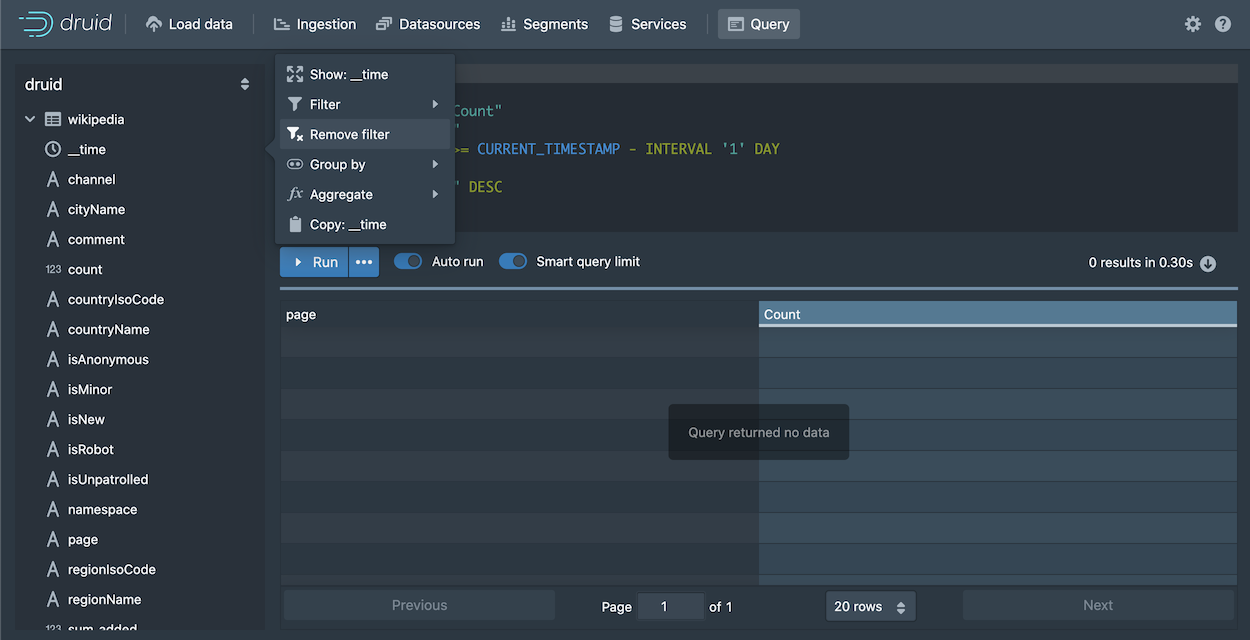
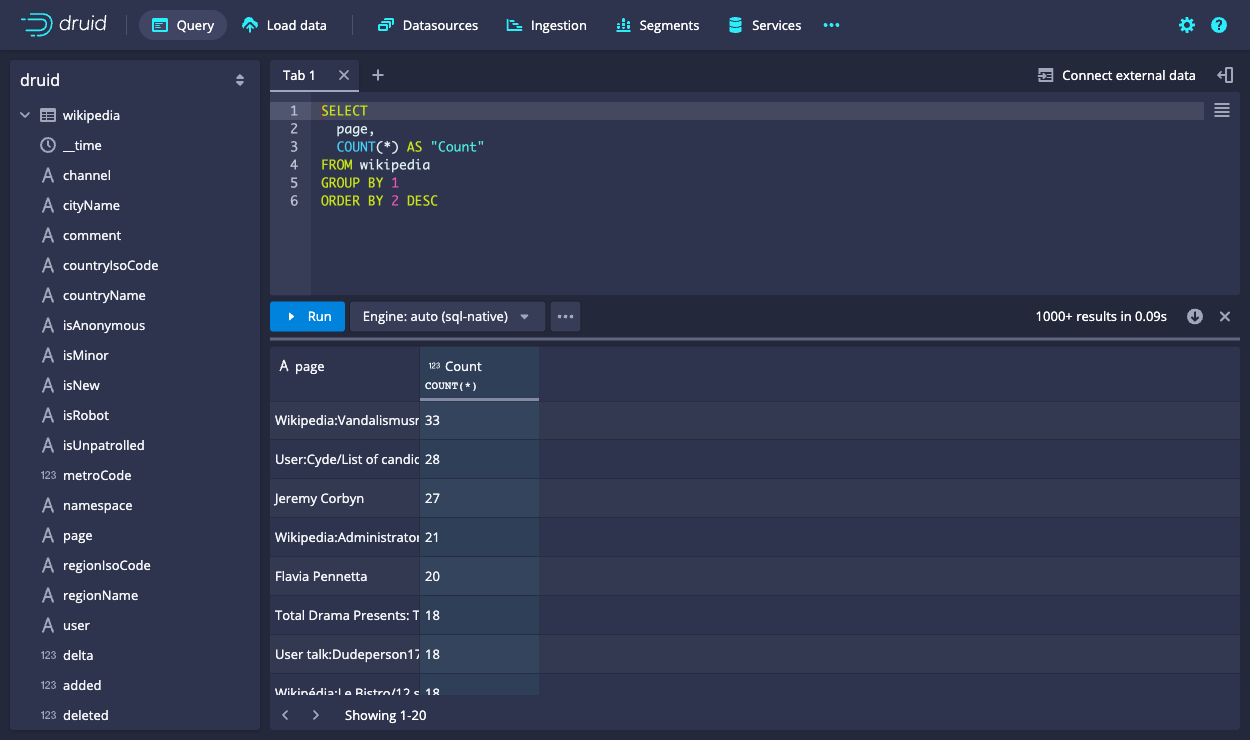
fix quickstart (#13126)

diff --git a/docs/tutorials/tutorial-query.md b/docs/tutorials/tutorial-query.md
@@ -64,21 +64,17 @@ create a query for the page dimension.
    returns no data, since by default the query filters for data from the last day, while our data is considerably
    older than that. Let's remove the filter.  
 
-5. In the datasource tree, click `__time` and **Remove Filter**. 
-
-   ![Clear WHERE filter](../assets/tutorial-query-03.png "Clear WHERE filter")
-
-6. Click **Run** to run the query.   
+5. Click **Run** to run the query.
 
    You should now see two columns of data, a page name and the count:
 
-   ![Query results](../assets/tutorial-query-04.png "Query results")
+   ![Query results](../assets/tutorial-query-03.png "Query results")
 
    Notice that the results are limited in the console to about a hundred, by default, due to the **Smart query limit** 
    feature. This helps users avoid inadvertently running queries that return an excessive amount of data, possibly
    overwhelming their system. 
 
-7. Let's edit the query directly and take a look at a few more query building features in the editor. 
+6. Let's edit the query directly and take a look at a few more query building features in the editor.
    Click in the query edit pane and make the following changes: 
 
    1.  Add a line after the first column, `"page"` and Start typing the name of a new column, `"countryName"`. Notice that the autocomplete menu suggests column names, functions, keywords, and more. Choose "countryName" and 
@@ -108,7 +104,7 @@ returns the number of edits for the page. Make the same column name change in th
    is null. Let's 
    show only rows with a `countryName` value.
 
-8. Click the countryName dimension in the left pane and choose the first filtering option. It's not exactly what we want, but
+7. Click the `countryName` dimension in the left pane and choose the first filtering option. It's not exactly what we want, but
 we'll edit it by hand. The new WHERE clause should appear in your query. 
 
 8. Modify the WHERE clause to exclude results that do not have a value for countryName: 
@@ -118,7 +114,7 @@ we'll edit it by hand. The new WHERE clause should appear in your query.
    ``` 
    Run the query again. You should now see the top edits by country:  
 
-   ![Finished query](../assets/tutorial-query-035.png "Finished query")
+   ![Finished query](../assets/tutorial-query-04.png "Finished query")
 
 9. Under the covers, every Druid SQL query is translated into a query in the JSON-based _Druid native query_ format before it runs
  on data nodes. You can view the native query for this query by clicking `...` and **Explain SQL Query**. 
@@ -126,7 +122,7 @@ we'll edit it by hand. The new WHERE clause should appear in your query.
    While you can use Druid SQL for most purposes, familiarity with native query is useful for composing complex queries and for troubleshooting 
 performance issues. For more information, see [Native queries](../querying/querying.md). 
 
-   ![Explain query](../assets/tutorial-query-06.png "Explain query")
+   ![Explain query](../assets/tutorial-query-05.png "Explain query")
 
     > Another way to view the explain plan is by adding EXPLAIN PLAN FOR to the front of your query, as follows:
     >
@@ -163,7 +159,7 @@ FROM wikipedia WHERE TIME_IN_INTERVAL("__time", '2015-09-12/2015-09-13')
 GROUP BY 1
 ```
 
-![Query example](../assets/tutorial-query-07.png "Query example")
+![Query example](../assets/tutorial-query-06.png "Query example")
 
 ### General group by
 
@@ -174,7 +170,7 @@ GROUP BY channel, page
 ORDER BY SUM(added) DESC
 ```
 
-![Query example](../assets/tutorial-query-08.png "Query example")
+![Query example](../assets/tutorial-query-07.png "Query example")
 
 
 ## Other ways to invoke SQL queries

diff --git a/docs/tutorials/index.md b/docs/tutorials/index.md
@@ -184,8 +184,9 @@ Follow these steps to load the sample Wikipedia dataset:
    ```
    </details>
 
-6. Optionally, click **Preview** to see the general shape of the data before you ingest it.  
-7. Click **Run** to execute the query. The task may take a minute or two to complete. When done, the task displays its duration and the number of rows inserted into the table. The view is set to automatically refresh, so you don't need to refresh the browser to see the status change.
+6. Optionally, click **Preview** to see the general shape of the data before you ingest it.
+7. Edit the first line of the query and change the default destination datasource name from `wikiticker-2015-09-12-sampled` to `wikipedia`.
+8. Click **Run** to execute the query. The task may take a minute or two to complete. When done, the task displays its duration and the number of rows inserted into the table. The view is set to automatically refresh, so you don't need to refresh the browser to see the status change.
 
     ![Run query](../assets/tutorial-quickstart-04.png "Run query")
 
@@ -201,7 +202,7 @@ In the **Query** view, run the following query to produce a list of top channels
 SELECT
   channel,
   COUNT(*)
-FROM "wikiticker-2015-09-12-sampled"
+FROM "wikipedia"
 GROUP BY channel
 ORDER BY COUNT(*) DESC
 ```
@@ -214,7 +215,7 @@ Congratulations! You've gone from downloading Druid to querying data with the MS
 
 See the following topics for more information:
 
-* [Druid SQL overview](../querying/sql.md) to learn about how to query the data you just ingested.
+* [Druid SQL overview](../querying/sql.md) or the [Query tutorial](./tutorial-query.md) to learn about how to query the data you just ingested.
 * [Ingestion overview](../ingestion/index.md) to explore options for ingesting more data.
 * [Tutorial: Load files using SQL](./tutorial-msq-extern.md) to learn how to generate a SQL query that loads external data into a Druid datasource.
 * [Tutorial: Load data with native batch ingestion](tutorial-batch-native.md) to load and query data with Druid's native batch ingestion feature.
